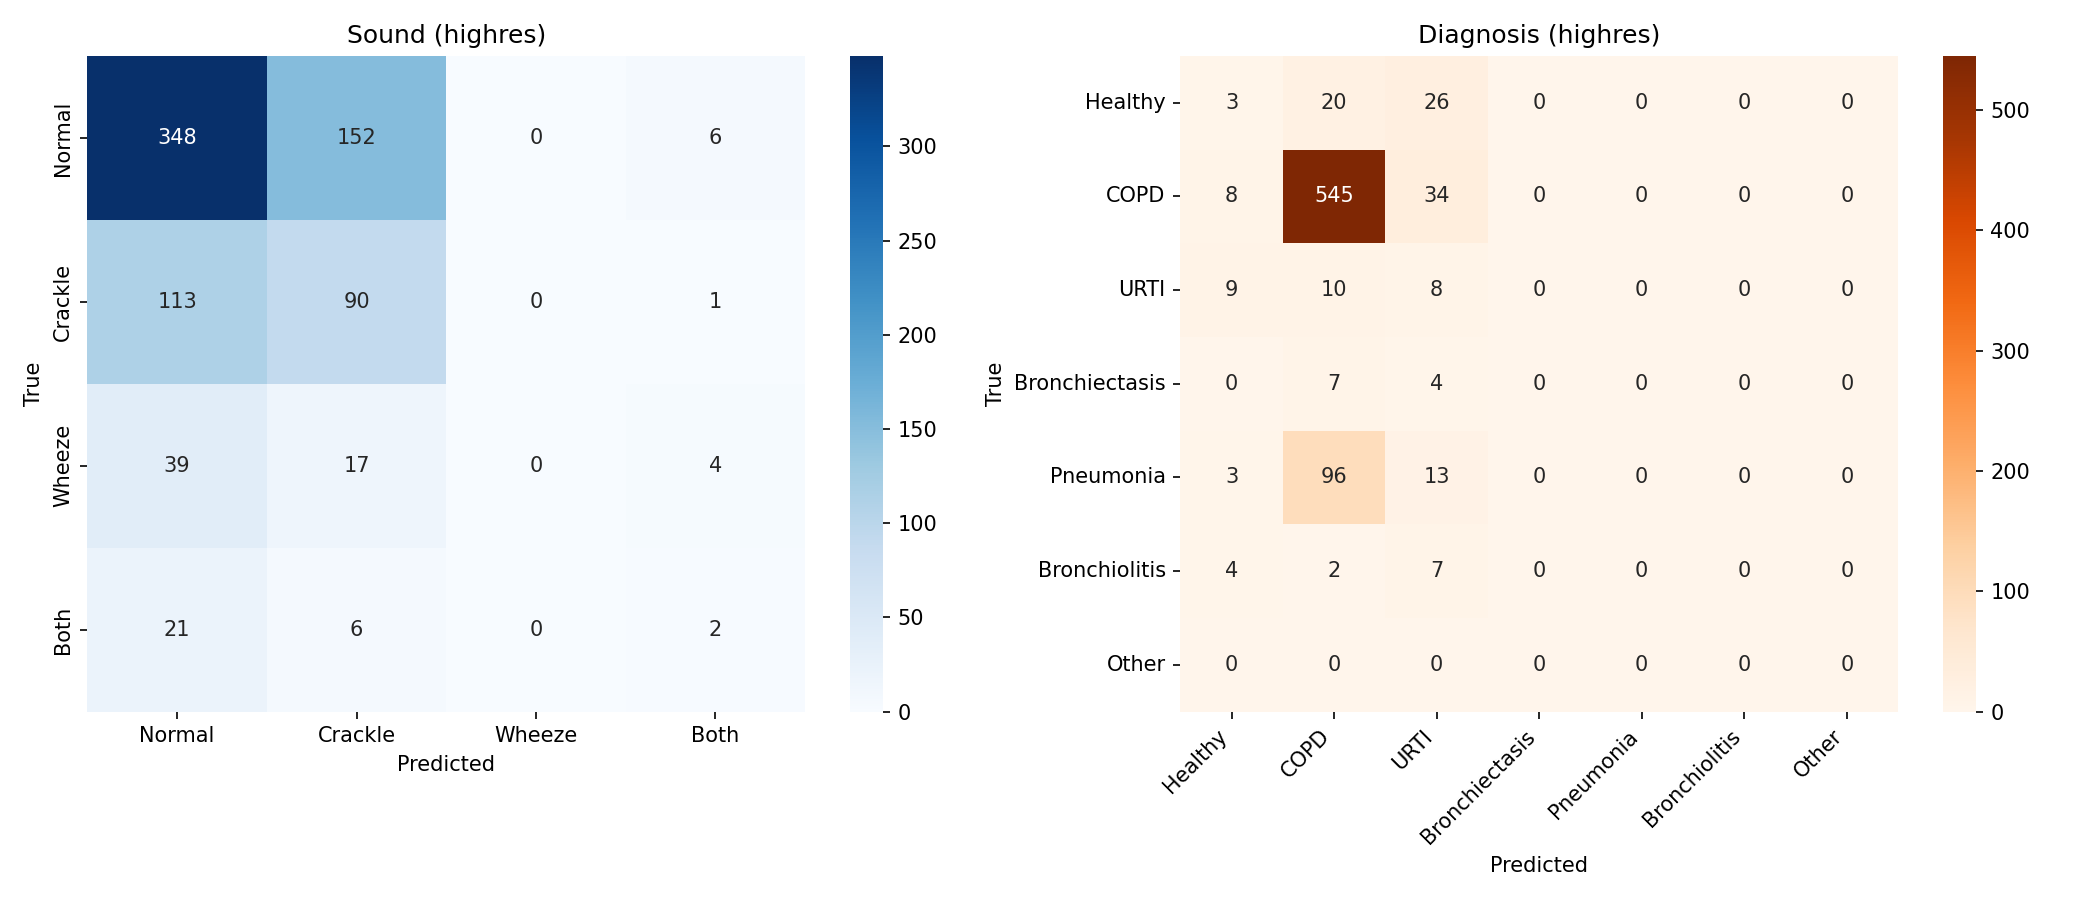
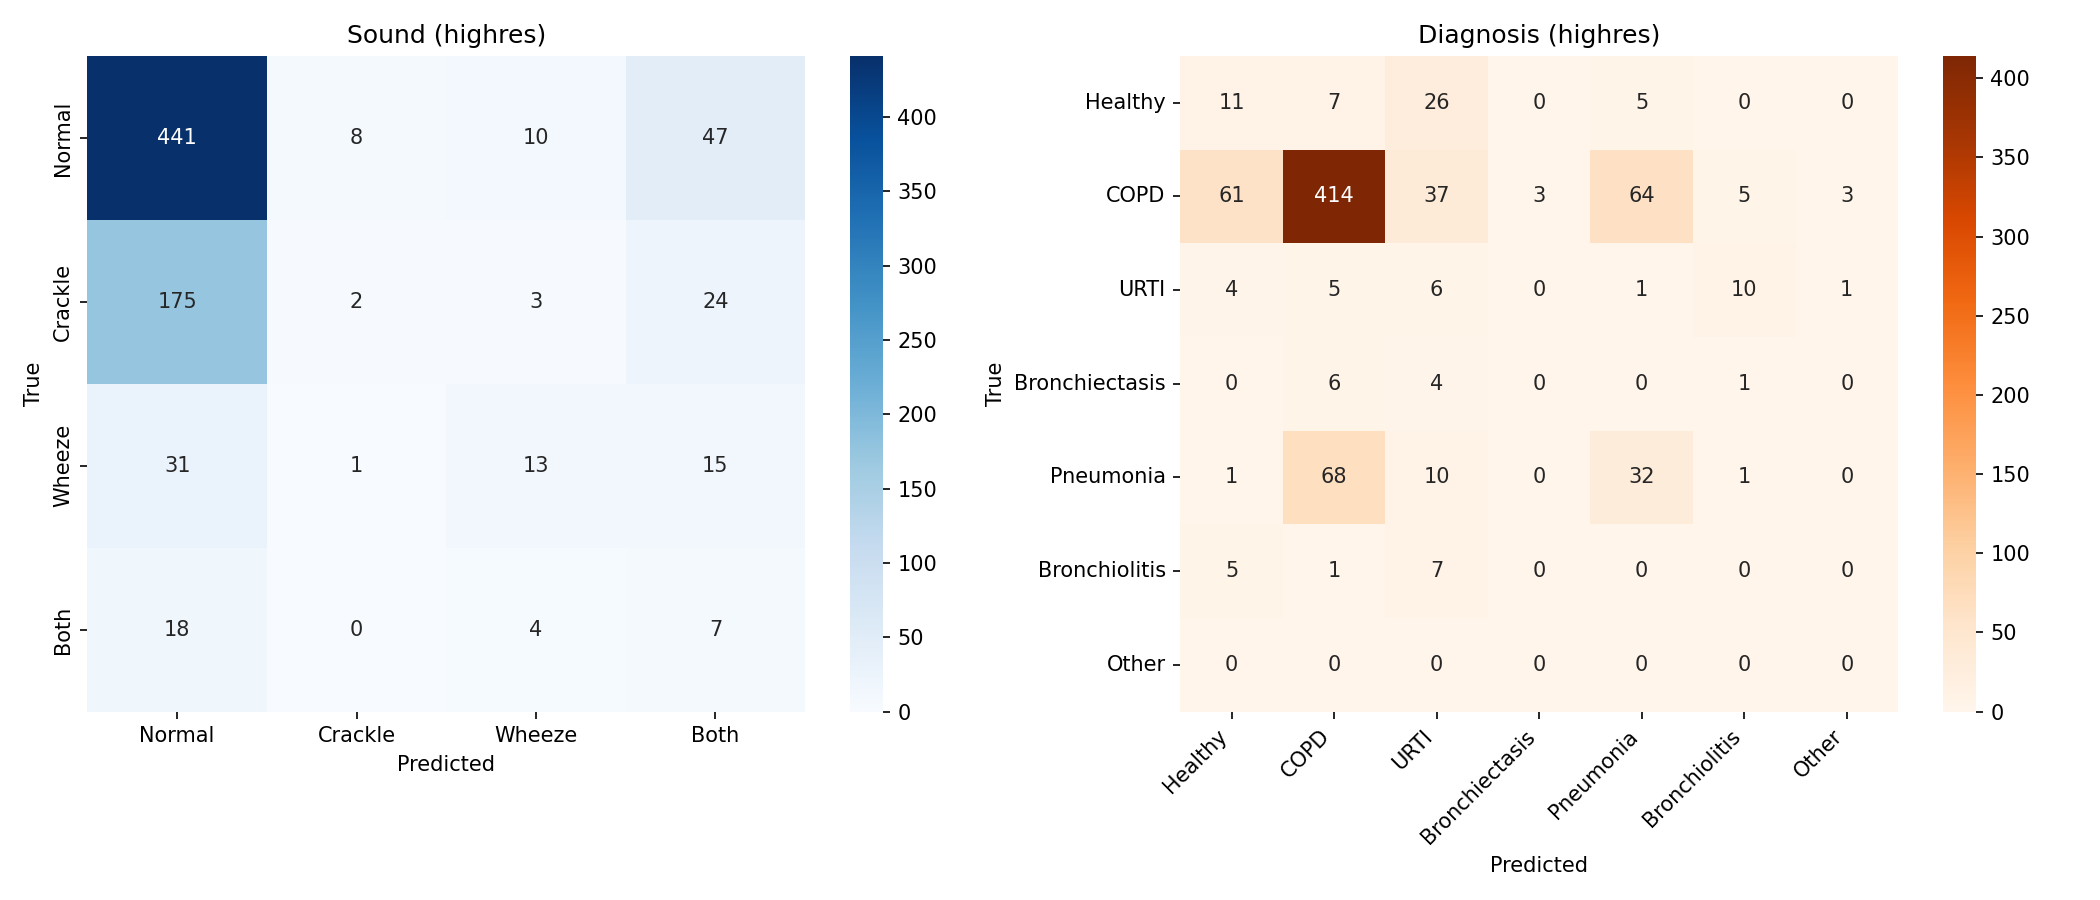
Integrate highres model with dashboard, add docstrings, add threshold sweep
- Update backend to use highres_best.keras with correct preprocessing pipeline
  (SR=16kHz, hop_length=256, TARGET_FRAMES=126, Butterworth filter, threshold weights)
- Add threshold sweep script for visualising post-hoc class weight tuning
- Add module-level docstrings to train_baseline.py and app.py

diff --git a/respiratory-dashboard/backend/app.py b/respiratory-dashboard/backend/app.py
@@ -1,3 +1,31 @@
+"""
+app.py
+------
+Flask backend for the PulmoScan respiratory sound analysis dashboard.
+
+Exposes three API endpoints consumed by the React frontend:
+  POST /api/predict   — Upload a .wav file, run the CNN model, return
+                        sound classification (Normal/Crackle/Wheeze/Both)
+                        and diagnosis prediction (COPD/Pneumonia/URTI/etc.)
+  POST /api/visualize — Upload a .wav file, return waveform data and
+                        spectrogram images for display in the dashboard
+  GET  /api/health    — Returns model load status and class labels
+
+Preprocessing pipeline mirrors src/preprocessing.py exactly:
+  resample to 16kHz → Butterworth bandpass (100-2000 Hz) →
+  mel spectrogram (hop_length=256, 128 mel bins) → normalise → pad to 126 frames
+
+Threshold weights [Normal=0.8, Crackle=0.5, Wheeze=2.0, Both=10.0] are applied
+to the softmax output before argmax to correct class imbalance at inference time.
+This post-hoc tuning improved ICBHI score from 58% to 62.01% without retraining.
+
+Run:
+    python app.py
+
+Requires:
+    data/checkpoints/highres_best.keras  (trained model weights)
+"""
+
 import os
 import io
 import base64
@@ -10,6 +38,7 @@ import matplotlib.pyplot as plt
 from flask import Flask, request, jsonify
 from flask_cors import CORS
 from werkzeug.utils import secure_filename
+from scipy.signal import butter, filtfilt
 
 app = Flask(__name__)
 CORS(app, resources={r"/api/*": {"origins": "*"}}, supports_credentials=False)
@@ -20,10 +49,26 @@ os.makedirs(UPLOAD_FOLDER, exist_ok=True)
 app.config["UPLOAD_FOLDER"] = UPLOAD_FOLDER
 
 # ── Model config — must match training hyperparameters exactly ────────────────
-MODEL_PATH   = "multitask_best.keras"   # ← put your .keras file path here
-TARGET_FRAMES = 63
+_BASE_DIR     = os.path.dirname(os.path.dirname(os.path.dirname(os.path.abspath(__file__))))
+MODEL_PATH    = os.path.join(_BASE_DIR, 'data', 'checkpoints', 'highres_best.keras')
+TARGET_FRAMES = 126
 N_MELS        = 128
-SR_MODEL      = 22050   # sample rate used during training
+SR_MODEL      = 16000   # sample rate used during training
+
+# Butterworth bandpass — removes heart noise (<100 Hz) and equipment noise (>2000 Hz)
+LOW_CUT      = 100
+HIGH_CUT     = 2000
+FILTER_ORDER = 4
+
+# Mel spectrogram params — must match src/preprocessing.py exactly
+N_FFT      = 2048
+HOP_LENGTH = 256
+FMIN       = 50
+FMAX       = 2000
+
+# Threshold weights — found via grid search post-training to correct class imbalance
+# [Normal=0.8, Crackle=0.5, Wheeze=2.0, Both=10.0] → ICBHI 62.01%
+THRESHOLD_WEIGHTS = np.array([0.8, 0.5, 2.0, 10.0], dtype=np.float32)
 
 SOUND_CLASSES     = ["Normal", "Crackle", "Wheeze", "Both"]
 DIAGNOSIS_CLASSES = ["Healthy", "COPD", "URTI", "Bronchiectasis",
@@ -93,22 +138,32 @@ def pad_or_truncate(feat, t=TARGET_FRAMES):
     return feat
 
 
+def butterworth_filter(audio, fs=SR_MODEL):
+    nyq  = 0.5 * fs
+    low  = LOW_CUT  / nyq
+    high = HIGH_CUT / nyq
+    b, a = butter(FILTER_ORDER, [low, high], btype='band')
+    return filtfilt(b, a, audio)
+
+
 def preprocess_for_model(y, sr):
-    """
-    Replicate the feature extraction used in the training manifest.
-    Adjust this if your training used a different mel pipeline.
-    """
-    # Resample if needed
+    """Mirrors src/preprocessing.py: resample → Butterworth → mel → normalize → pad."""
     if sr != SR_MODEL:
         y = librosa.resample(y, orig_sr=sr, target_sr=SR_MODEL)
         sr = SR_MODEL
 
-    mel = librosa.feature.melspectrogram(y=y, sr=sr, n_mels=N_MELS, fmax=8000)
-    mel_db = librosa.power_to_db(mel, ref=np.max)
+    y = butterworth_filter(y, fs=sr)
 
-    feat = pad_or_truncate(mel_db, TARGET_FRAMES)   # (128, 63)
-    feat = feat[..., np.newaxis]                     # (128, 63, 1)
-    feat = np.expand_dims(feat, 0).astype(np.float32)  # (1, 128, 63, 1)
+    mel    = librosa.feature.melspectrogram(
+        y=y, sr=sr, n_fft=N_FFT, hop_length=HOP_LENGTH,
+        n_mels=N_MELS, fmin=FMIN, fmax=FMAX, power=2.0,
+    )
+    mel_db = librosa.power_to_db(mel, ref=np.max)
+    mel_db = (mel_db - mel_db.mean()) / (mel_db.std() + 1e-8)
+
+    feat = pad_or_truncate(mel_db, TARGET_FRAMES)      # (128, 126)
+    feat = feat[..., np.newaxis]                        # (128, 126, 1)
+    feat = np.expand_dims(feat, 0).astype(np.float32)  # (1, 128, 126, 1)
     return feat
 
 
@@ -121,25 +176,32 @@ def run_model(y, sr):
     Returns a dict:
         sound     → sorted list of {label, probability}
         diagnosis → sorted list of {label, probability}
+    Top sound prediction uses threshold-tuned weights; probabilities shown are raw softmax.
     """
     model = get_model()
     inp = preprocess_for_model(y, sr)
 
     sound_probs, diag_probs = model.predict(inp, verbose=0)
-    sound_probs = sound_probs[0].tolist()
-    diag_probs  = diag_probs[0].tolist()
+    raw_sound = sound_probs[0]           # raw softmax, shape (4,)
+    diag_probs = diag_probs[0].tolist()
 
-    sound_preds = sorted(
-        [{"label": cls, "probability": round(float(p), 4)}
-         for cls, p in zip(SOUND_CLASSES, sound_probs)],
-        key=lambda x: x["probability"], reverse=True,
-    )
+    # Apply threshold weights to pick predicted class (62.01% ICBHI tuning)
+    tuned = raw_sound * THRESHOLD_WEIGHTS
+    top_idx = int(np.argmax(tuned))
+
+    # Build display list: sort by raw probability but surface the tuned top class first
+    sound_preds = [
+        {"label": cls, "probability": round(float(p), 4), "tuned_top": (i == top_idx)}
+        for i, (cls, p) in enumerate(zip(SOUND_CLASSES, raw_sound.tolist()))
+    ]
+    sound_preds.sort(key=lambda x: (x["tuned_top"], x["probability"]), reverse=True)
+
     diag_preds = sorted(
         [{"label": cls, "probability": round(float(p), 4)}
          for cls, p in zip(DIAGNOSIS_CLASSES, diag_probs)],
         key=lambda x: x["probability"], reverse=True,
     )
-    return {"sound": sound_preds, "diagnosis": diag_preds}
+    return {"sound": sound_preds, "diagnosis": diag_preds, "tuned_top_idx": top_idx}
 
 
 # ─────────────────────────────────────────────────────────────────────────────
@@ -150,7 +212,7 @@ def allowed_file(filename):
     return "." in filename and filename.rsplit(".", 1)[1].lower() in ALLOWED_EXTENSIONS
 
 
-def load_audio(filepath, sr=22050):
+def load_audio(filepath, sr=SR_MODEL):
     y, sr = librosa.load(filepath, sr=sr)
     return y, sr
 
@@ -357,12 +419,14 @@ def predict():
 
         sound = results["sound"]
         diag  = results["diagnosis"]
+        # sound[0] is already the threshold-tuned top class (sorted with tuned_top first)
+        top_sound = sound[0]
 
         return jsonify({
             "success": True,
             "model_pending": False,
             # Keys PredictionPanel.jsx reads
-            "top_prediction": {"disease": sound[0]["label"], "probability": sound[0]["probability"]},
+            "top_prediction": {"disease": top_sound["label"], "probability": top_sound["probability"]},
             "predictions":    [{"disease": p["label"], "probability": p["probability"]} for p in sound],
             # Diagnosis (bonus — available for future frontend use)
             "top_diagnosis":         {"disease": diag[0]["label"], "probability": diag[0]["probability"]},

diff --git a/threshold_sweep.py b/threshold_sweep.py
@@ -1,0 +1,125 @@
+"""
+Generate threshold sweep plot — shows ICBHI score vs class weight for each class.
+This visualises the threshold tuning process for the report.
+
+Run: python threshold_sweep.py
+Output: data/results/threshold_sweep.png
+"""
+
+import os, sys
+import numpy as np
+import pandas as pd
+import matplotlib.pyplot as plt
+from sklearn.metrics import confusion_matrix
+import tensorflow as tf
+
+sys.path.insert(0, os.path.dirname(os.path.abspath(__file__)))
+
+BASE          = os.path.dirname(os.path.abspath(__file__))
+MANIFEST_PATH = os.path.join(BASE, 'data', 'processed', 'manifest_aug_modest.csv')
+MODEL_PATH    = os.path.join(BASE, 'data', 'checkpoints', 'highres_best.keras')
+OUT_PATH      = os.path.join(BASE, 'data', 'results', 'threshold_sweep.png')
+TARGET_FRAMES = 126
+N_MELS        = 128
+BEST_WEIGHTS  = [0.8, 0.5, 2.0, 10.0]
+CLASS_NAMES   = ['Normal', 'Crackle', 'Wheeze', 'Both']
+
+def icbhi(y_true, y_pred, n=4):
+    cm = confusion_matrix(y_true, y_pred, labels=list(range(n)))
+    se, sp = [], []
+    for i in range(n):
+        tp = cm[i, i]; fn = cm[i].sum() - tp
+        fp = cm[:, i].sum() - tp; tn = cm.sum() - tp - fn - fp
+        se.append(tp / (tp + fn + 1e-9))
+        sp.append(tn / (tn + fp + 1e-9))
+    return (np.mean(se) + np.mean(sp)) / 2
+
+def load_val():
+    df  = pd.read_csv(MANIFEST_PATH)
+    val = df[df['split'] == 'val'].reset_index(drop=True)
+    X, y = [], []
+    for _, row in val.iterrows():
+        path = row['features_path']
+        if not os.path.exists(path):
+            continue
+        feat = np.load(path)
+        t = feat.shape[-1]
+        if t < TARGET_FRAMES:
+            feat = np.pad(feat, [(0, 0), (0, TARGET_FRAMES - t)])
+        else:
+            feat = feat[..., :TARGET_FRAMES]
+        X.append(feat[..., np.newaxis])
+        y.append(int(row['sound_label']))
+    return np.array(X, dtype=np.float32), np.array(y)
+
+def build_model():
+    inp = tf.keras.Input(shape=(N_MELS, TARGET_FRAMES, 1))
+    x = tf.keras.layers.Conv2D(32, 3, padding='same', activation='relu')(inp)
+    x = tf.keras.layers.BatchNormalization()(x)
+    x = tf.keras.layers.MaxPooling2D(2)(x)
+    x = tf.keras.layers.Conv2D(64, 3, padding='same', activation='relu')(x)
+    x = tf.keras.layers.BatchNormalization()(x)
+    x = tf.keras.layers.MaxPooling2D(2)(x)
+    x = tf.keras.layers.Conv2D(128, 3, padding='same', activation='relu')(x)
+    x = tf.keras.layers.BatchNormalization()(x)
+    x = tf.keras.layers.MaxPooling2D(2)(x)
+    x = tf.keras.layers.Conv2D(256, 3, padding='same', activation='relu')(x)
+    x = tf.keras.layers.BatchNormalization()(x)
+    x = tf.keras.layers.GlobalAveragePooling2D()(x)
+    shared = tf.keras.layers.Dense(256, activation='relu')(x)
+    shared = tf.keras.layers.Dropout(0.5)(shared)
+    s = tf.keras.layers.Dense(128, activation='relu')(shared)
+    s = tf.keras.layers.Dropout(0.3)(s)
+    sound_out = tf.keras.layers.Dense(4, activation='softmax', name='sound')(s)
+    d = tf.keras.layers.Dense(128, activation='relu')(shared)
+    d = tf.keras.layers.Dropout(0.3)(d)
+    diag_out = tf.keras.layers.Dense(7, activation='softmax', name='diagnosis')(d)
+    return tf.keras.Model(inp, [sound_out, diag_out])
+
+print("Loading val data...")
+X_val, y_val = load_val()
+print(f"Val shape: {X_val.shape}")
+
+print("Loading model...")
+model = build_model()
+model.load_weights(MODEL_PATH)
+
+print("Getting predictions...")
+sound_probs, _ = model.predict(X_val, batch_size=32, verbose=0)
+
+# Baseline (no tuning)
+baseline = icbhi(y_val, np.argmax(sound_probs, axis=1))
+best     = icbhi(y_val, np.argmax(sound_probs * np.array(BEST_WEIGHTS), axis=1))
+print(f"Baseline ICBHI: {baseline:.4f}")
+print(f"Tuned ICBHI:    {best:.4f}")
+
+# Sweep each weight independently, others fixed at optimal
+sweep = np.concatenate([np.arange(0.1, 3.0, 0.1), np.arange(3.0, 15.0, 0.5)])
+
+fig, axes = plt.subplots(2, 2, figsize=(12, 8))
+fig.suptitle('ICBHI Score vs Threshold Weight per Class', fontsize=14, y=1.01)
+
+colors = ['#1976d2', '#388e3c', '#f57c00', '#c62828']
+
+for idx, ax in enumerate(axes.flat):
+    scores = []
+    for w in sweep:
+        weights = BEST_WEIGHTS.copy()
+        weights[idx] = w
+        y_pred = np.argmax(sound_probs * np.array(weights), axis=1)
+        scores.append(icbhi(y_val, y_pred))
+
+    ax.plot(sweep, scores, color=colors[idx], linewidth=2)
+    ax.axvline(BEST_WEIGHTS[idx], color='red', linestyle='--', linewidth=1.5,
+               label=f'Optimal = {BEST_WEIGHTS[idx]}')
+    ax.axhline(best, color='gray', linestyle=':', alpha=0.8, label=f'Best = {best:.2%}')
+    ax.axhline(baseline, color='black', linestyle=':', alpha=0.4, label=f'No tuning = {baseline:.2%}')
+    ax.set_xlabel(f'{CLASS_NAMES[idx]} weight')
+    ax.set_ylabel('ICBHI Score')
+    ax.set_title(f'{CLASS_NAMES[idx]}')
+    ax.legend(fontsize=8)
+    ax.set_ylim(0.45, 0.65)
+
+plt.tight_layout()
+plt.savefig(OUT_PATH, dpi=150, bbox_inches='tight')
+print(f"\nSaved to {OUT_PATH}")

diff --git a/train_baseline.py b/train_baseline.py
@@ -1,3 +1,24 @@
+"""
+train_baseline.py
+-----------------
+Baseline single-task CNN for respiratory sound classification.
+
+Trains a 4-block CNN (32→64→128→256 filters) on mel-spectrogram features
+from the ICBHI 2017 dataset to classify lung sounds into 4 categories:
+Normal, Crackle, Wheeze, Both.
+
+This is the starting point before multitask learning was introduced.
+Achieved 59.80% ICBHI score on the test set.
+
+Run:
+    python train_baseline.py
+
+Output:
+    data/checkpoints/baseline_best.keras
+    data/results/baseline_training_curves.png
+    data/results/baseline_confusion_matrix.png
+"""
+
 import os, random
 import numpy as np
 import pandas as pd
